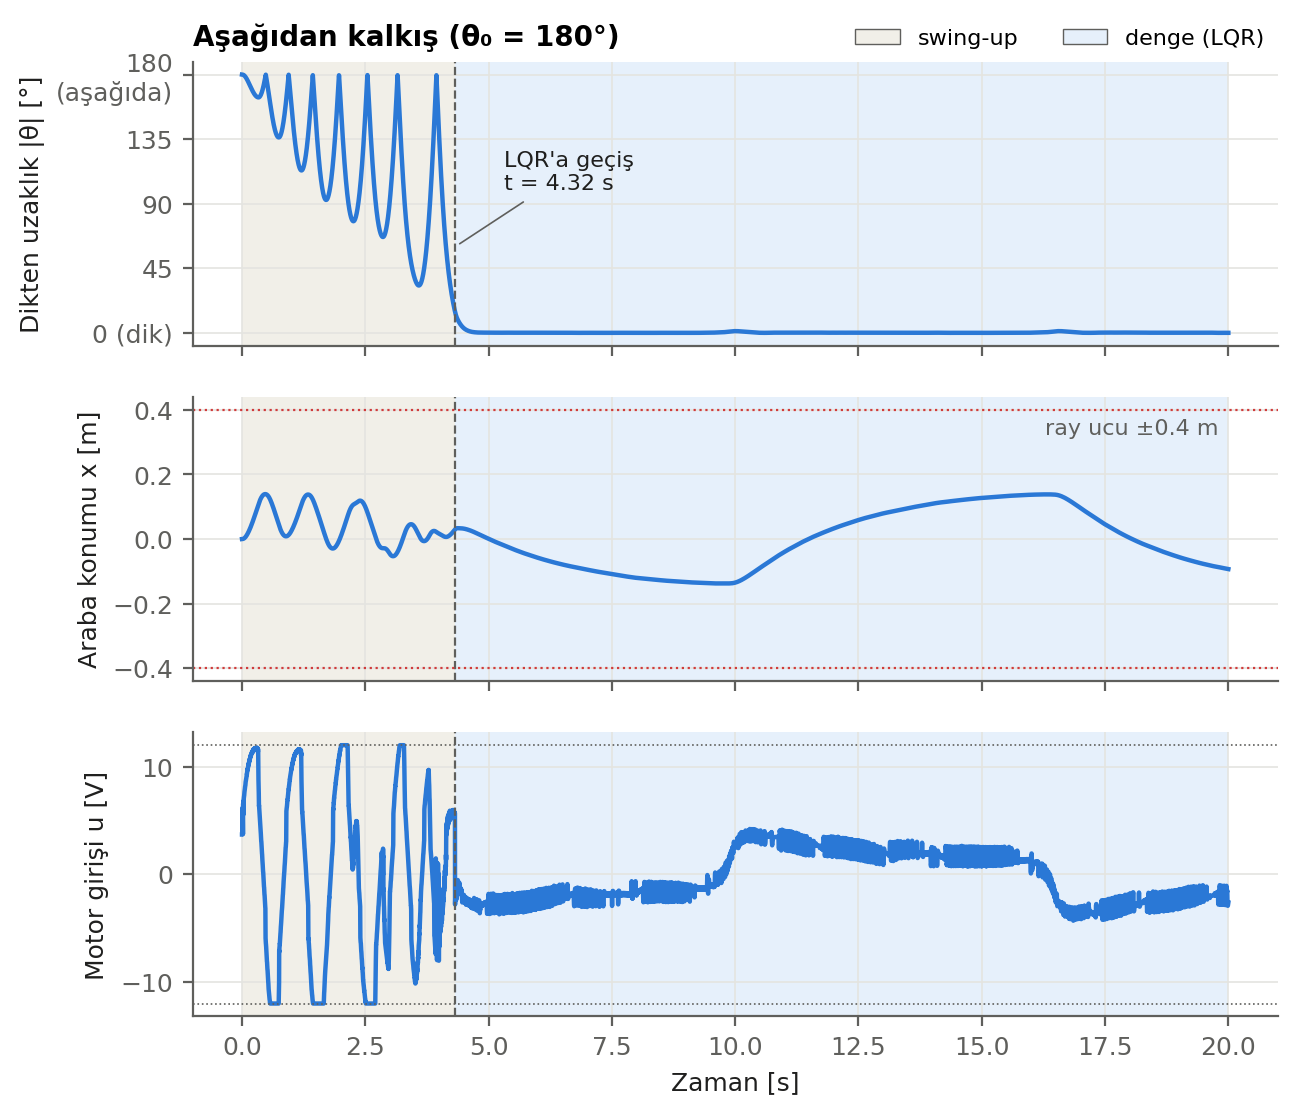
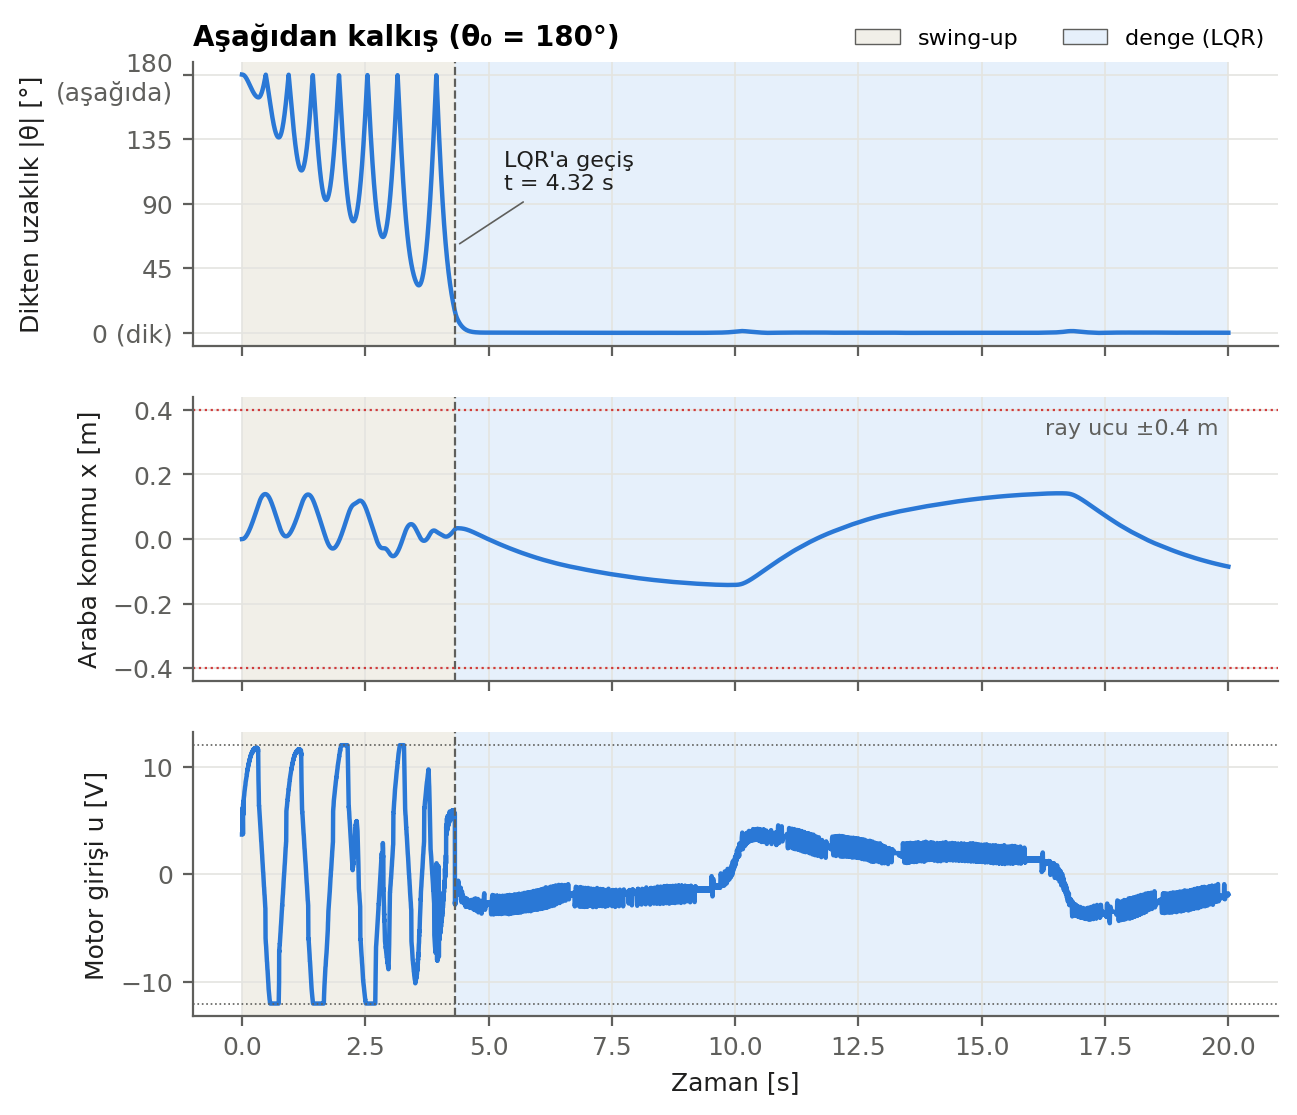
PR #45 inceleme 1. tur: Kt=Ke tutarlı motor sabitleri, düştü/tutamadı/FAULT hücreleri, belge düzeltmeleri
- Motor: R=b/α², Kt=Ke (Tablo 16'daki α ve b aynı kalır)
- Araç: LQR'ın bırakıp swing-up'ın yeniden kaldırdığı ve yakalayıp tutamadığı durumlar ayrı yazılıyor
- rapor_sekilleri: notlar ayrı paragraf, uyarıda gerçek parametre dosyası
- Belge: 'dengede kaldığı aralık', noktasal kütle, sonuç 1 ifadesi, fc_volt notu, sınır durum hassasiyeti,
  dengede sürtünmeden doğan ölü bant

diff --git a/tools/rapor_sekilleri.py b/tools/rapor_sekilleri.py
@@ -333,12 +333,13 @@ def write_readme(out: Path, S: Setup, params_path: Path, sw, push_rows, push_max
                     "DÜŞTÜ": "düştü, swing-up yeniden kaldırdı",
                     "TUTAMADI": "LQR yakaladı ama tutamadı"}.get(s, s)
     placeholder = getattr(S.p, "placeholder", None)
+    prel = (params_path.relative_to(ROOT_DIR) if params_path.is_relative_to(ROOT_DIR) else params_path).as_posix()
     L = [f"# Rapor şekilleri",
          "",
          f"`tools/rapor_sekilleri.py` ile {date.today():%d.%m.%Y} tarihinde üretildi. **Elle düzenlemeyin;** "
          "parametreler değişince script'i yeniden çalıştırın.",
          "",
-         f"* Parametreler: `{(params_path.relative_to(ROOT_DIR) if params_path.is_relative_to(ROOT_DIR) else params_path).as_posix()}`"
+         f"* Parametreler: `{prel}`"
          f" (M = {S.p.M:g} kg, m = {S.p.m:g} kg, l = {S.p.l:g} m, ray ±{S.p.rail_half:g} m, "
          f"giriş: {'motor gerilimi' if unit == 'V' else 'kuvvet'}, |u| ≤ {S.p.u_max:g} {unit})",
          f"* Kontrolcü: arayüzün varsayılanları; Q = diag{Q}, R = {R:g}, Ts = {TS * 1000:g} ms, "
@@ -350,10 +351,10 @@ def write_readme(out: Path, S: Setup, params_path: Path, sw, push_rows, push_max
          + f", {encoder_resolution(S.p) * 1000:.3f} mm/sayım); dik bölgede Kalman (firmware gibi)",
          ""]
     if placeholder or "YER TUTUCU" in str(getattr(S.p, "note", "")):
-        L += ["> ⚠ **Parametreler yer tutucu değerlerdir.** Mekatronik ekibi gerçek ölçüleri `config/params.json`'a "
-              "girince şekiller yeniden üretilmelidir; sayılar değişecektir.", ""]
+        L += [f"> ⚠ **Parametreler yer tutucu değerlerdir** (`{prel}`, ölçüm değil). Gerçek ölçüler girilince "
+              "şekiller yeniden üretilmelidir; sayılar değişecektir.", ""]
     if S.e_ratio != 1.0:
-        L[-1:-1] = [f"> Swing-up hedef enerji oranı arayüz varsayılanından (1.0) farklı: **{S.e_ratio:g}**.", ""]
+        L += [f"> Swing-up hedef enerji oranı arayüz varsayılanından (1.0) farklı: **{S.e_ratio:g}**.", ""]
     L += ["## 1. Aşağıdan kalkış — `asagidan_kalkis.png`",
           "",
           "![Aşağıdan kalkış](asagidan_kalkis.png)",

diff --git a/tools/mekatronik_on_degerlendirme.py b/tools/mekatronik_on_degerlendirme.py
@@ -68,16 +68,30 @@ def run(p, e_ratio, friction_comp=True, T=T):
     e = evaluate_result(r, p)
     m = np.asarray(r.mode)
     tb = float(r.t[np.argmax(m == "BALANCE")]) if (m == "BALANCE").any() else None
+    status = e.status
+    if tb is not None:
+        after = set(m[np.argmax(m == "BALANCE"):])
+        lost = "SWING_UP" in after or "WAIT" in after             # LQR yakaladıktan sonra bıraktı mı?
+        if status == "BAŞARISIZ":
+            status = "TUTAMADI"                                   # yakaladı, bıraktı, yeniden yakalayamadı
+        elif lost and status in ("BAŞARILI", "SINIRDA"):
+            status = "DÜŞTÜ"                                      # bıraktı, swing-up yeniden kaldırdı
     # dike en yakın açı, ilk sallanma (3 s; kısa koşuda sürenin yarısı) hariç
     closest = float(np.abs(np.degrees(np.arctan2(np.sin(r.th), np.cos(r.th))))[r.t > min(3.0, 0.5 * T)].min())
-    return e.status, tb, float(np.abs(r.x).max()), closest
+    return status, tb, float(np.abs(r.x).max()), closest
 
 
 def cell(status, tb, mx, cl):
     if status in ("BAŞARILI", "SINIRDA") and tb is not None:
         return f"✔ {tb:.1f} s (max \\|x\\| {mx:.2f} m)"
+    if status == "DÜŞTÜ":
+        return f"✔ ilk yakalama {tb:.1f} s; düştü, yeniden yakalandı (max \\|x\\| {mx:.2f} m)"
+    if status == "TUTAMADI":
+        return f"✘ {tb:.1f} s'de yakalandı ama tutulamadı"
     if status == "RAY SINIRI":
         return "✘ ray ucuna çarptı"
+    if status == "FAULT":
+        return "✘ hata (yazılımsal ray sınırı)"
     return f"✘ dike en fazla {cl:.0f}°"
 
 

diff --git a/docs/media/rapor_mekatronik/README.md b/docs/media/rapor_mekatronik/README.md
@@ -7,9 +7,9 @@
 * K = [-9.83, -46.64, -101.46, -14.36]
 * Sensör: 12-bit açı ve enkoder kuantalaması (motor milinde 48 CPR × 19 redüktör = 912 sayım/tur, 0.066 mm/sayım); dik bölgede Kalman (firmware gibi)
 
-> ⚠ **Parametreler yer tutucu değerlerdir.** Mekatronik ekibi gerçek ölçüleri `config/params.json`'a girince şekiller yeniden üretilmelidir; sayılar değişecektir.
-> Swing-up hedef enerji oranı arayüz varsayılanından (1.0) farklı: **1.05**.
+> ⚠ **Parametreler yer tutucu değerlerdir** (`config/params_mekatronik_tasarim.json`, ölçüm değil). Gerçek ölçüler girilince şekiller yeniden üretilmelidir; sayılar değişecektir.
 
+> Swing-up hedef enerji oranı arayüz varsayılanından (1.0) farklı: **1.05**.
 
 ## 1. Aşağıdan kalkış — `asagidan_kalkis.png`
 
@@ -19,7 +19,7 @@
 
 | LQR'a geçiş | Yerleşme (±2°) | Max \|x\| | Max \|u\| | Sonuç |
 |---|---|---|---|---|
-| 4.32 s | 4.55 s | 0.139 m | 12.00 V | dengede kaldı |
+| 4.32 s | 4.55 s | 0.142 m | 12.00 V | dengede kaldı |
 
 ## 2. Dürtmeye tepki — `durtme.png`
 
@@ -29,7 +29,7 @@
 
 | İtme | Max \|θ\| | Max \|x\| | İtmeden sonra yerleşme (±2°) | Sonuç |
 |---|---|---|---|---|
-| 0.2 N | 1.3° | 0.142 m | — | dengede kaldı |
+| 0.2 N | 1.3° | 0.141 m | — | dengede kaldı |
 | 0.5 N | 3.0° | 0.138 m | 0.52 s | dengede kaldı |
 | 0.7 N | 5.0° | 0.222 m | 0.82 s | dengede kaldı |
 
@@ -55,18 +55,18 @@ LQR'ın swing-up'a düşmeden kurtarabildiği en büyük itme (aynı süreyle): 
 
 | m ve l sapması | Sonuç | LQR'a geçiş | Max \|x\| | Dike en yakın (t > 3 s) |
 |---|---|---|---|---|
-| -30% | swing-up bitmedi | — | 0.163 m | 90.8° |
+| -30% | swing-up bitmedi | — | 0.163 m | 90.9° |
 | -25% | swing-up bitmedi | — | 0.156 m | 85.3° |
-| -20% | dengede kaldı | 7.65 s | 0.190 m | 0.0° |
+| -20% | ray ucuna çarptı | 7.65 s | 0.400 m | 0.0° |
 | -15% | dengede kaldı | 5.62 s | 0.147 m | 0.0° |
-| -10% | dengede kaldı (ray ucuna yakın) | 4.93 s | 0.304 m | 0.0° |
-| -5% | dengede kaldı | 4.23 s | 0.143 m | 0.0° |
+| -10% | dengede kaldı (ray ucuna yakın) | 4.93 s | 0.314 m | 0.0° |
+| -5% | dengede kaldı | 4.23 s | 0.150 m | 0.0° |
 | +0% | dengede kaldı | 4.32 s | 0.143 m | 0.0° |
-| +5% | dengede kaldı | 3.57 s | 0.143 m | 0.0° |
-| +10% | dengede kaldı | 3.55 s | 0.143 m | 0.0° |
-| +15% | dengede kaldı | 3.57 s | 0.158 m | 0.0° |
-| +20% | dengede kaldı (ray ucuna yakın) | 3.60 s | 0.301 m | 0.0° |
-| +25% | LQR yakaladı ama tutamadı | 3.62 s | 0.305 m | 9.5° |
+| +5% | dengede kaldı | 3.57 s | 0.142 m | 0.0° |
+| +10% | dengede kaldı | 3.55 s | 0.140 m | 0.0° |
+| +15% | dengede kaldı | 3.57 s | 0.154 m | 0.0° |
+| +20% | dengede kaldı (ray ucuna yakın) | 3.60 s | 0.305 m | 0.0° |
+| +25% | LQR yakaladı ama tutamadı | 3.64 s | 0.272 m | 11.9° |
 | +30% | swing-up bitmedi | — | 0.133 m | 15.8° |
 
 **Not:** Gerçek sarkaç modeldekinden hafif/kısa olduğunda (-30% … -25%) swing-up tamamlanmıyor: sarkaç her salınımda dik konuma ancak 85–91°'ye kadar yaklaşıyor, 15°'lik yakalama bölgesine giremiyor. Olası sebep: swing-up hedef enerjiyi nominal modelle hesaplıyor; gerçek sarkaç farklıysa bu hedef de kayıyor. Bu, [hassasiyet raporundaki](../../hassasiyet_raporu.md) `l` parametresinin "KRİTİK" sonucuyla tutarlıdır.
@@ -74,3 +74,5 @@ LQR'ın swing-up'a düşmeden kurtarabildiği en büyük itme (aynı süreyle): 
 **Not:** Gerçek sarkaç modeldekinden ağır/uzun olduğunda (+30%) swing-up tamamlanmıyor: sarkaç her salınımda dik konuma ancak 16°'ye kadar yaklaşıyor, 15°'lik yakalama bölgesine giremiyor. Olası sebep: swing-up hedef enerjiyi nominal modelle hesaplıyor; gerçek sarkaç farklıysa bu hedef de kayıyor.
 
 **Not:** +25% sapmada sarkaç yakalama bölgesine girip LQR'a geçti, ama LQR onu tutamadı ve swing-up süre sonuna kadar yeniden tamamlanmadı. LQR nominal modelle tasarlandığı için sapma büyüyünce denge payı azalıyor.
+
+Araba ray ucuna çarpan noktalar: -20%.

diff --git a/docs/media/rapor/README.md b/docs/media/rapor/README.md
@@ -7,7 +7,7 @@
 * K = [-9.52, -27.29, -61.49, -9.74]
 * Sensör: 12-bit açı ve enkoder kuantalaması (motor milinde 48 CPR × 10 redüktör = 480 sayım/tur, 0.125 mm/sayım); dik bölgede Kalman (firmware gibi)
 
-> ⚠ **Parametreler yer tutucu değerlerdir.** Mekatronik ekibi gerçek ölçüleri `config/params.json`'a girince şekiller yeniden üretilmelidir; sayılar değişecektir.
+> ⚠ **Parametreler yer tutucu değerlerdir** (`config/params.json`, ölçüm değil). Gerçek ölçüler girilince şekiller yeniden üretilmelidir; sayılar değişecektir.
 
 ## 1. Aşağıdan kalkış — `asagidan_kalkis.png`
 
